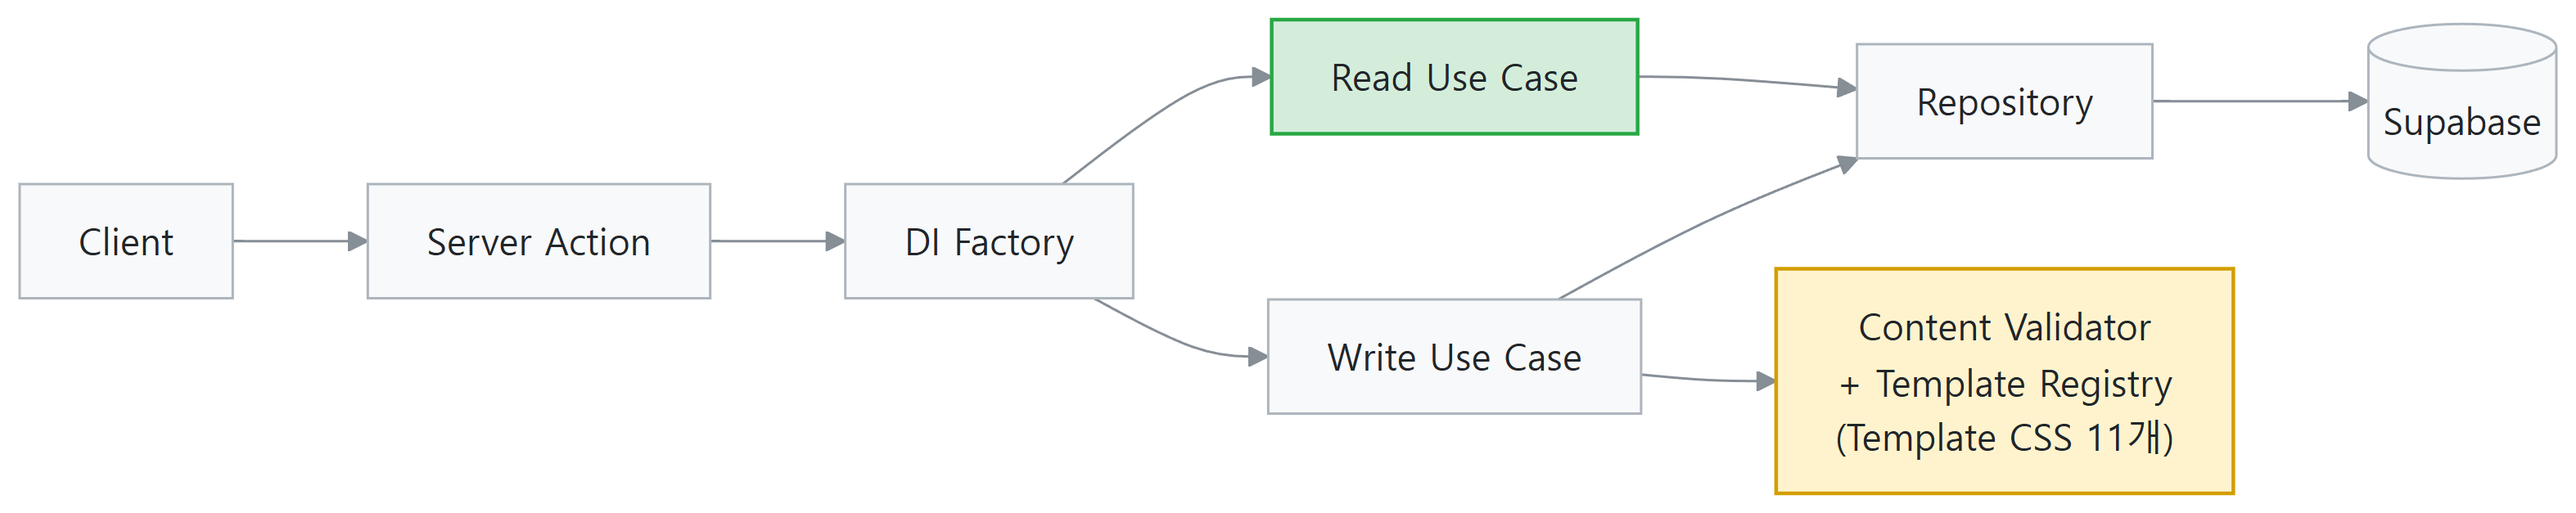
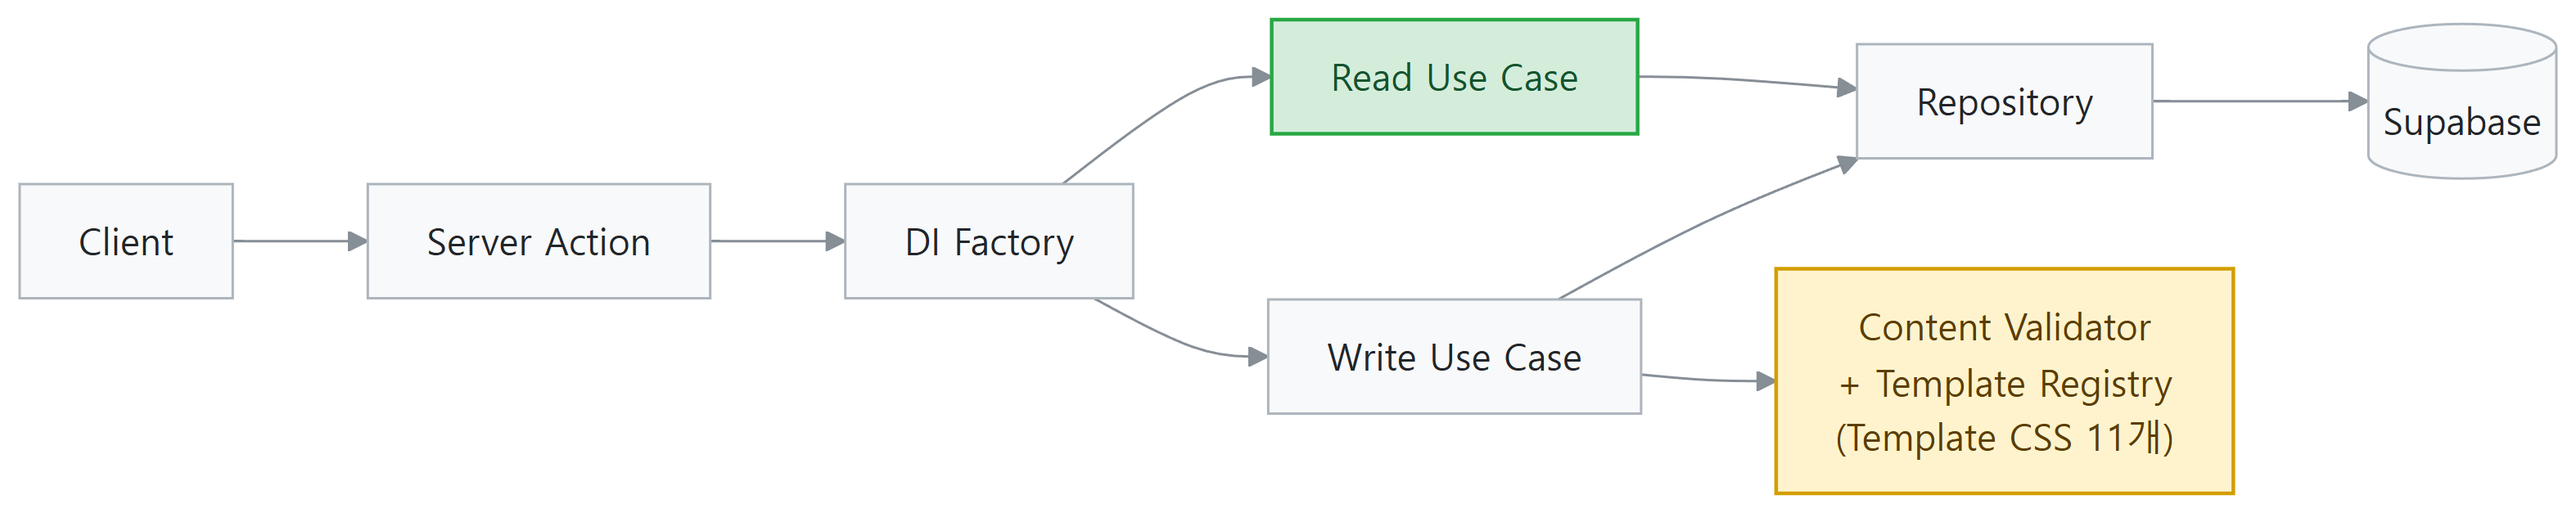
fix(docs): 아키텍처 다이어그램 강조 노드 글자색 명시 + 범례 추가
style 지시자에 fill/stroke 만 있고 color 가 없어서, GitHub 이 뷰어 테마로
렌더하는 README 인라인 mermaid 는 다크 모드에서 노드 글자가 옅은 회색이
됐다. 연한 초록(#d4edda)·연한 노랑(#fff3cd) 배경 위라 대비가 거의 없다.
(render.mjs 로 뽑는 PNG 는 흰 배경 + #212529 강제라 영향 없었다.)

- 두 노드에 color 를 명시해 테마와 무관하게 대비를 확보. fill 은 그대로라
  PNG 는 글자색만 바뀐다.
- 초록/노랑이 무슨 뜻인지 어디에도 없었다 — 읽기 경로 / 쓰기 경로의 검증
  관문이라는 범례를 다이어그램 밑에 추가.
- mmd 와 png 를 함께 갱신 (나머지 5장은 재렌더 결과 바이트 동일).

diff --git a/README.md b/README.md
@@ -24,9 +24,12 @@ flowchart LR
   W --> VAL["Content Validator<br/>+ Template Registry<br/>(Template CSS 11개)"]
   W --> RP
   RP --> DB[("Supabase")]
-  style R fill:#d4edda,stroke:#28a745,stroke-width:1.5px
-  style VAL fill:#fff3cd,stroke:#d39e00,stroke-width:1.5px
+  style R fill:#d4edda,stroke:#28a745,stroke-width:1.5px,color:#14532d
+  style VAL fill:#fff3cd,stroke:#d39e00,stroke-width:1.5px,color:#5c3d00
 ```
+
+> 🟩 **읽기 경로** — Repository 로 바로 내려가는 가벼운 경로.
+> 🟨 **쓰기 경로의 검증 관문** — 여기서만 Content Validator 와 Template Registry 를 끌어옵니다.
 
 - **Domain layer** — 순수 비즈니스 로직(엔티티, 리포지토리 인터페이스, 유스케이스). Vitest 단위 테스트는 도메인 레이어만 in-memory fake로 검증합니다.
 - **요청별 DI** — 싱글톤 없이 매 요청마다 새 Supabase 클라이언트로 조립. 인증 컨텍스트가 절대 누설되지 않습니다.
